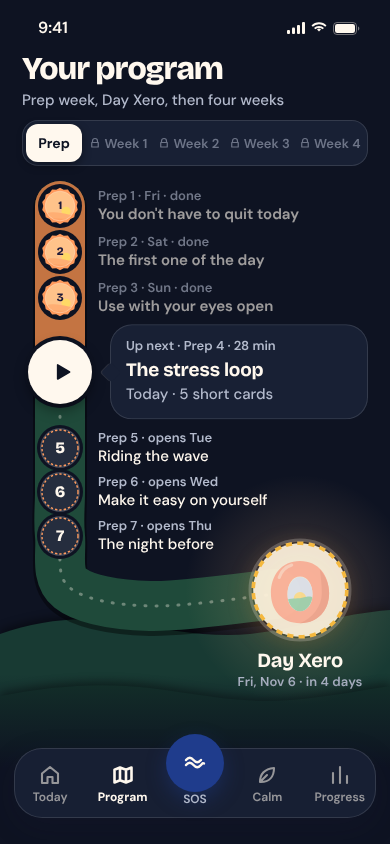
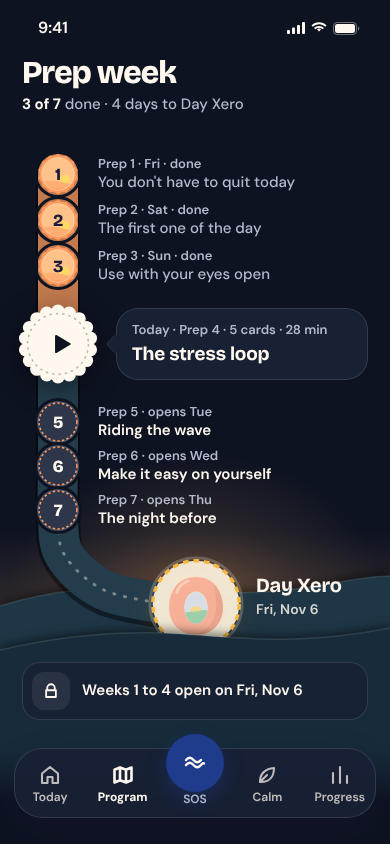
Round 7 work in progress
Claude-Session: https://claude.ai/code/session_01DZ7ApmrncqosUtJWfkxY6v

diff --git a/cook/site/screens/022-program.html b/cook/site/screens/022-program.html
@@ -1,108 +1,122 @@
 <!doctype html><html lang="en"><head><meta charset="utf-8"><meta name="viewport" content="width=390">
 <title>022 Program, prep week</title>
-<meta name="motion" content="Title and the segmented week control arrive (90ms stagger; Week 1 to 4 sit dimmed behind small locks). The road, one continuous paper-cut ribbon, fades in (600ms), then its finished stretch fills prep-orange from the top to today's node (1100ms, ease) along the same path; Prep 1 to 3 stamps and their dimmed rows arrive as the fill reaches each one (about 360ms apart). Today's Prep 4 play node and the up-next card beside it arrive as the fill lands, then the node breathes a soft pulse ring every 2.4s. Prep 5 to 7 (dashed prep-orange rings on cream) fade in, the hills rise 30px into place back to front (100ms apart, 900ms), and the Day Xero coin rises onto the horizon like a sunrise (1100ms settle) as its warm glow brightens (1.2s) and its label fades in under it. Light haptic when the fill reaches today.">
+<meta name="motion" content="The 'Prep week' header and its progress line arrive (600ms, 90ms stagger). The road, one continuous paper-cut ribbon from Prep 1 to the Day Xero coin, fades in (600ms), then its finished stretch fills prep-orange from the top to today's stamp (1100ms, ease); Prep 1 to 3 stamps and their rows arrive as the fill reaches each one (about 360ms apart). Today's Prep 4 play stamp lands as the fill arrives (600ms arrive, no spring) with the up-next card beside it, then the stamp breathes a soft pulse ring every 2.4s. Prep 5 to 7 (dashed rings on cream) fade in, the dotted guide draws on to the horizon, the two hills rise 24px into place back to front (100ms apart, 900ms), and the Day Xero coin rises onto the horizon like a sunrise (1100ms settle) while the warm glow behind it brightens (1.2s) and its label fades in. Last, the locked 'Weeks 1 to 4' row arrives on the hill (600ms). Light haptic when the fill reaches today.">
 <link rel="stylesheet" href="../kit/kit.css">
 <script src="../kit/chars.js"></script><script src="../kit/kit.js"></script>
 <style>
-  .screen[data-ground="mint"] { --g: #FBF6EC; --road: #C4EBD5; --road-edge: rgba(36,73,58,.14); --done-road: #FFAE73; --card-2: #EEF5EC;
-    --h1: #CFEEDB; --h2: #B4E3C7; --hsh: rgba(36,73,58,.16); --glow: #FFD966; }
-  [data-theme="dark"] .screen[data-ground="mint"] { --road: #1F4A3A; --road-edge: rgba(0,0,0,.4); --done-road: #C47442; --card-2: #212A41;
-    --h1: #183A33; --h2: #133029; --hsh: rgba(0,0,0,.45); --glow: #FFC38A; }
-  .hdr { position: absolute; left: 0; right: 0; top: 52px; padding: 0 var(--gutter); }
+  .screen[data-ground="mint"] { --g: #FBF6EC; --road: #CBEBD8; --road-edge: rgba(36,73,58,.16); --done-road: #FFAE73; --card-2: #EEF5EC;
+    --hb: #B3DFC6; --hf: #8FCDAA; --hrim: rgba(255,255,255,.6); --hsh: rgba(30,70,50,.22); --glow: 255,186,96; --glow-a: .62; }
+  [data-theme="dark"] .screen[data-ground="mint"] { --road: #233D4C; --road-edge: rgba(0,0,0,.45); --done-road: #C27A4E; --card-2: #212A41;
+    --hb: #1E3646; --hf: #172B3A; --hrim: rgba(200,225,235,.14); --hsh: rgba(0,0,0,.5); --glow: 255,176,104; --glow-a: .3; }
+  .tabbar a { color: color-mix(in srgb, var(--fg) 72%, transparent); }
+  .tabfade { height: 92px; }
+
+  .hdr { position: absolute; left: 0; right: 0; top: 56px; padding: 0 var(--gutter); }
   .hdr .t-foot { color: var(--muted); margin-top: 4px; }
-  .seg { position: absolute; left: var(--gutter); right: var(--gutter); top: 120px; height: 46px; border-radius: 16px; background: color-mix(in srgb, var(--fg) 7%, var(--g)); padding: 4px; display: grid; grid-template-columns: .82fr 1fr 1fr 1fr 1fr; gap: 2px; }
-  .seg button { border-radius: 12px; font: 600 14px/1 var(--body); color: var(--muted); white-space: nowrap; display: flex; align-items: center; justify-content: center; gap: 3px; }
-  .seg button.on { background: var(--sel); color: var(--sel-fg); font-weight: 800; box-shadow: 0 3px 10px rgba(30,26,58,.24); }
-  .seg button.lk { opacity: .55; font-size: 13px; }
-  .seg button.lk svg { width: 12px; height: 12px; flex: none; }
-  [data-theme="dark"] .seg { background: var(--card); box-shadow: inset 0 0 0 1px var(--line); }
-  [data-theme="dark"] .seg button.on { box-shadow: 0 3px 10px rgba(0,0,0,.4); }
+  .hdr .t-foot b { color: var(--fg); font-weight: 700; }
 
   svg.road { position: absolute; left: 0; top: 0; pointer-events: none; }
   #done { stroke-dasharray: var(--l4) 4000; stroke-dashoffset: 0; }
   .play #done { animation: fill 1100ms var(--ease) 300ms both; }
   @keyframes fill { from { stroke-dashoffset: var(--l4); } to { stroke-dashoffset: 0; } }
+
   .node { position: absolute; transform: translate(-50%, -50%); }
-  .node .bg { border-radius: 99px; background: var(--g); box-shadow: 0 0 0 3px var(--g); }
+  .stamp { position: relative; width: 42px; height: 42px; display: grid; place-items: center; border-radius: 99px; box-shadow: 0 0 0 3px var(--g); }
+  .stamp svg { position: absolute; inset: 0; }
+  .stamp .n { position: relative; font: 800 17px/1 var(--display); color: #1E1A3A; letter-spacing: -.3px; }
+  .stamp.wait { background: var(--card); }
+  [data-theme="dark"] .stamp.wait { background: var(--card-2); }
+  .stamp.wait .n { color: var(--fg); }
   .lab { position: absolute; left: 98px; right: var(--gutter); transform: translateY(-50%); }
   .lab .k { font: 600 13px/1.3 var(--body); color: var(--muted); display: block; }
   .lab .t-foot { font-weight: 600; font-size: 15px; line-height: 1.3; }
-  .lab.done > div { opacity: .6; }
-  .still .lab.done > div { opacity: .6 !important; }
-  .lab.lock .t-foot { font-weight: 500; color: var(--fg); }
-  .wait { position: relative; width: 40px; height: 40px; border-radius: 99px; background: var(--card); display: grid; place-items: center; color: var(--fg); box-shadow: 0 0 0 3px var(--g); }
-  .wait svg { position: absolute; inset: 0; }
-  .wait .n { position: relative; font: 800 16px/1 var(--display); color: var(--fg); letter-spacing: -.3px; }
-  .cur { width: 64px; height: 64px; border-radius: 99px; background: var(--btn); color: var(--btn-fg); display: grid; place-items: center; position: relative; box-shadow: 0 6px 14px rgba(30,26,58,.22), 0 0 0 4px var(--g); }
-  [data-theme="dark"] .cur { box-shadow: 0 6px 14px rgba(0,0,0,.4), 0 0 0 4px var(--g); }
-  .cur svg { width: 26px; height: 26px; margin-left: 4px; }
-  .cur::before { content: ""; position: absolute; inset: -7px; border-radius: 99px; box-shadow: 0 0 0 3px var(--fg); opacity: 0; }
+  .lab.done .t-foot { color: var(--muted); font-weight: 500; }
+
+  /* today: a big stamp you press to play */
+  .cur { position: relative; width: 80px; height: 80px; display: grid; place-items: center; color: var(--btn-fg); filter: drop-shadow(0 6px 12px rgba(30,26,58,.24)); }
+  [data-theme="dark"] .cur { filter: drop-shadow(0 6px 14px rgba(0,0,0,.45)); }
+  .cur svg.sc { position: absolute; inset: 0; }
+  .cur .pl { position: relative; width: 30px; height: 30px; margin-left: 5px; }
+  .cur::before { content: ""; position: absolute; inset: -6px; border-radius: 99px; box-shadow: 0 0 0 3px var(--fg); opacity: 0; }
   .play .cur::before { animation: pulse 2.4s var(--ease) 1.8s infinite; }
-  @keyframes pulse { 0% { opacity: .45; transform: scale(1); } 100% { opacity: 0; transform: scale(1.35); } }
-  .upnext { position: absolute; left: 110px; right: var(--gutter); padding: 14px 16px; display: grid; gap: 3px; overflow: visible; transform: translateY(-50%); box-shadow: 0 8px 22px rgba(36,73,58,.10); }
+  @keyframes pulse { 0% { opacity: .4; transform: scale(1); } 100% { opacity: 0; transform: scale(1.3); } }
+  .upnext { position: absolute; left: 116px; right: var(--gutter); padding: 14px 16px 15px; overflow: visible; transform: translateY(-50%); box-shadow: 0 8px 22px rgba(36,73,58,.12); }
   [data-theme="dark"] .upnext { box-shadow: inset 0 0 0 1px var(--line); }
   .upnext::before { content: ""; position: absolute; left: -6px; top: 50%; width: 14px; height: 14px; margin-top: -7px; background: inherit; border-radius: 3px; transform: rotate(45deg); }
   [data-theme="dark"] .upnext::before { box-shadow: -1px 1px 0 0 var(--line); }
-  .upnext .k { font: 600 13px/1.3 var(--body); color: var(--muted); }
-  .upnext .t-foot { color: var(--muted); }
+  .upnext .k { font: 600 13px/1.3 var(--body); color: var(--muted); display: block; }
+  .upnext .t-head { margin-top: 3px; }
 
-  /* the destination: Day Xero, lit, standing on the horizon */
-  .land { position: absolute; left: 0; right: 0; bottom: 0; height: 280px; pointer-events: none; }
-  .land svg { position: absolute; left: 0; bottom: 0; display: block; }
-  .land .h { filter: drop-shadow(0 -3px 5px var(--hsh)); }
-  .play .land .h { animation: hill 900ms var(--settle) both; }
-  .play .land .h1 { animation-delay: 1500ms; } .play .land .h2 { animation-delay: 1600ms; }
-  @keyframes hill { from { transform: translateY(30px); opacity: 0; } }
-  .goal { position: absolute; transform: translate(-50%, -50%); width: 104px; height: 104px; }
-  .goal .glow { position: absolute; left: 50%; top: 50%; width: 230px; height: 230px; margin: -115px 0 0 -115px; border-radius: 50%; background: radial-gradient(closest-side, color-mix(in srgb, var(--glow) 70%, transparent), color-mix(in srgb, var(--glow) 22%, transparent) 55%, transparent); }
-  [data-theme="dark"] .goal .glow { background: radial-gradient(closest-side, color-mix(in srgb, var(--glow) 34%, transparent), color-mix(in srgb, var(--glow) 10%, transparent) 55%, transparent); }
-  .play .goal .glow { animation: dx-fade 1200ms var(--ease) 1800ms both; }
-  .goal .coin { position: relative; filter: drop-shadow(0 6px 12px rgba(150,90,20,.22)); }
+  /* the horizon: a warm glow where Day Xero rises, two paper-cut hills */
+  .glow { position: absolute; left: 0; right: 0; top: 430px; height: 300px; pointer-events: none;
+    background: radial-gradient(190px 150px at 196px 174px, rgba(var(--glow), var(--glow-a)), rgba(var(--glow), calc(var(--glow-a) * .35)) 55%, rgba(var(--glow), 0) 100%),
+                linear-gradient(180deg, rgba(var(--glow), 0) 34%, rgba(var(--glow), calc(var(--glow-a) * .45)) 58%, rgba(var(--glow), 0) 60%); }
+  .play .glow { animation: dx-fade 1200ms var(--ease) 1800ms both; }
+  .hill { position: absolute; left: 0; top: 0; pointer-events: none; }
+  .hill path.f { filter: drop-shadow(0 -3px 5px var(--hsh)); }
+  .play .hill { animation: hill 900ms var(--settle) both; }
+  .play .hill.b { animation-delay: 1500ms; } .play .hill.f { animation-delay: 1600ms; }
+  @keyframes hill { from { transform: translateY(24px); opacity: 0; } }
+  .goal { position: absolute; transform: translate(-50%, -50%); width: 96px; height: 96px; }
+  .goal .coin { filter: drop-shadow(0 6px 12px rgba(150,90,20,.24)); }
   .play .goal .coin { animation: rise 1100ms var(--settle) 1750ms both; }
   @keyframes rise { from { transform: translateY(40px); opacity: 0; } }
-  .goal-lab { position: absolute; width: 180px; transform: translateX(-50%); text-align: center; }
+  .goal-lab { position: absolute; left: 256px; right: var(--gutter); transform: translateY(-50%); }
   .goal-lab .t-head { font-size: 20px; }
-  .goal-lab .t-cap { color: var(--muted); margin-top: 2px; }
+  .goal-lab .t-cap { color: var(--fg); opacity: .78; margin-top: 3px; font-size: 14px; }
+  [data-theme="dark"] .goal-lab .t-cap { opacity: .82; }
+
+  /* after the horizon: what opens next, locked */
+  .tease { position: absolute; left: var(--gutter); right: var(--gutter); top: 662px; height: 58px; padding: 0 16px 0 10px; display: flex; align-items: center; gap: 12px; border-radius: 18px;
+    background: color-mix(in srgb, var(--card) 72%, transparent); box-shadow: inset 0 0 0 1px var(--line); }
+  [data-theme="dark"] .tease { background: color-mix(in srgb, var(--card) 80%, transparent); }
+  .tease .lk { width: 38px; height: 38px; border-radius: 12px; display: grid; place-items: center; background: color-mix(in srgb, var(--fg) 8%, transparent); color: var(--fg); flex: none; }
+  .tease .lk svg { width: 18px; height: 18px; }
+  .tease .t-foot { font-weight: 600; color: var(--fg); }
 </style>
 </head><body>
 <div class="screen" data-ground="mint">
   <div class="hdr">
-    <h1 class="t-large" data-a style="--i:0">Your program</h1>
-    <p class="t-foot" data-a style="--i:1">Prep week, Day Xero, then four weeks</p>
+    <h1 class="t-large" data-a style="--i:0">Prep week</h1>
+    <p class="t-foot" data-a style="--i:1"><b>3 of 7</b> done &middot; 4 days to Day Xero</p>
   </div>
-  <div class="seg" data-a style="--i:2" role="tablist" id="seg"></div>
 
-  <div class="land" aria-hidden="true">
-    <svg class="h h1" width="390" height="280" viewBox="0 0 390 280"><path d="M0 70 C40 56 80 52 120 58 C170 66 210 74 250 70 C300 64 340 50 390 46 V280 H0Z" fill="var(--h1)"/></svg>
-  </div>
+  <div class="glow" aria-hidden="true"></div>
+  <svg class="hill b" width="390" height="844" viewBox="0 0 390 844" aria-hidden="true"><path class="f" d="M0 606 C50 590 110 584 170 590 C230 596 290 592 340 582 C362 578 378 576 390 576 V844 H0Z" fill="var(--hb)"/><path d="M0 606 C50 590 110 584 170 590 C230 596 290 592 340 582 C362 578 378 576 390 576" fill="none" stroke="var(--hrim)" stroke-width="1.5"/></svg>
   <svg class="road" width="390" height="844" viewBox="0 0 390 844" aria-hidden="true">
-    <path id="edge" fill="none" stroke="var(--road-edge)" stroke-width="54" stroke-linecap="round" stroke-linejoin="round" transform="translate(0 3)" data-fade style="--d:150ms"/>
-    <path id="road" fill="none" stroke="var(--road)" stroke-width="50" stroke-linecap="round" stroke-linejoin="round" data-fade style="--d:150ms"/>
-    <path id="done" fill="none" stroke="var(--done-road)" stroke-width="50" stroke-linecap="round" stroke-linejoin="round"/>
-    <path id="future" fill="none" stroke="var(--fg)" stroke-opacity=".35" stroke-width="3" stroke-dasharray="1 10" stroke-linecap="round" data-fade style="--d:1300ms"/>
+    <path id="edge" fill="none" stroke="var(--road-edge)" stroke-width="44" stroke-linecap="round" stroke-linejoin="round" transform="translate(0 3)" data-fade style="--d:150ms"/>
+    <path id="road" fill="none" stroke="var(--road)" stroke-width="40" stroke-linecap="round" stroke-linejoin="round" data-fade style="--d:150ms"/>
+    <path id="done" fill="none" stroke="var(--done-road)" stroke-width="40" stroke-linecap="round" stroke-linejoin="round"/>
+    <path id="future" fill="none" stroke="var(--fg)" stroke-opacity=".4" stroke-width="3" stroke-dasharray="1 10" stroke-linecap="round" data-fade style="--d:1300ms"/>
   </svg>
-  <div class="land" aria-hidden="true">
-    <svg class="h h2" width="390" height="280" viewBox="0 0 390 280"><path d="M0 132 C50 122 100 118 150 124 C200 130 240 140 290 136 C330 133 360 126 390 122 V280 H0Z" fill="var(--h2)"/></svg>
-  </div>
+  <div id="goal"></div>
+  <svg class="hill f" width="390" height="844" viewBox="0 0 390 844" aria-hidden="true"><path class="f" d="M0 650 C60 636 120 630 180 634 C240 638 300 646 390 628 V844 H0Z" fill="var(--hf)"/><path d="M0 650 C60 636 120 630 180 634 C240 638 300 646 390 628" fill="none" stroke="var(--hrim)" stroke-width="1.5"/></svg>
   <div id="nodes"></div>
+
+  <div class="tease" data-a style="--d:2100ms" aria-label="Weeks 1 to 4, locked until Friday, November 6">
+    <span class="lk" id="lock"></span>
+    <p class="t-foot">Weeks 1 to 4 open on Fri, Nov 6</p>
+  </div>
 </div>
 <script>
   const $ = s => document.querySelector(s);
-  $('#seg').innerHTML = '<button class="on" aria-selected="true">Prep</button>' + [1, 2, 3, 4].map(n => `<button class="lk" aria-label="Week ${n}, opens after Day Xero">${DX.icon('lock', { size: 12, w: 2.4 })}Week ${n}</button>`).join('');
-  const X = 60, Y = [206, 252, 298, 372, 448, 492, 536], G = [300, 590];
-  /* one smooth ribbon: a single Catmull-Rom spline straight down the node column, then one wide sweep onto the horizon to the coin */
+  const X = 58, Y = [174, 220, 266, 344, 422, 466, 510], G = [196, 604];
+  /* one smooth ribbon: a Catmull-Rom spline straight down the node column, then one sweep onto the horizon into the coin */
   const pts = Y.map(y => [X, y]);
-  pts.push([X + 10, 588], [150, 606], [G[0] - 24, G[1] + 4]);
+  pts.push([X + 6, 554], [104, 590], [G[0] - 30, G[1]]);
   const seg = (p, i) => { const p0 = p[i - 1] || p[i], p1 = p[i], p2 = p[i + 1], p3 = p[i + 2] || p2;
     const c1 = [p1[0] + (p2[0] - p0[0]) / 6, p1[1] + (p2[1] - p0[1]) / 6], c2 = [p2[0] - (p3[0] - p1[0]) / 6, p2[1] - (p3[1] - p1[1]) / 6];
     return ` C${c1[0].toFixed(1)} ${c1[1].toFixed(1)} ${c2[0].toFixed(1)} ${c2[1].toFixed(1)} ${p2[0]} ${p2[1]}`; };
   const span = (a, b) => `M${pts[a][0]} ${pts[a][1]}` + Array.from({ length: b - a }, (_, k) => seg(pts, a + k)).join('');
-  const last = pts.length - 1, i4 = pts.findIndex(p => p[0] === X && p[1] === Y[3]);
+  const last = pts.length - 1, i4 = 3;
   ['#edge', '#road', '#done'].forEach(s => $(s).setAttribute('d', span(0, last)));
-  /* the finished stretch is the same path, dashed so it ends at today's node; the dotted guide runs from today on */
+  /* the finished stretch is the same path, dashed so it ends at today's stamp; the dotted guide runs from today to the coin */
   const tmp = document.createElementNS('http://www.w3.org/2000/svg', 'path'); tmp.setAttribute('d', span(0, i4));
   $('svg.road').appendChild(tmp); $('#done').style.setProperty('--l4', tmp.getTotalLength().toFixed(1)); tmp.remove();
-  $('#future').setAttribute('d', span(i4, last));
+  $('#future').setAttribute('d', span(i4 + 1, last));
+
+  /* a soft seal edge: a disc ringed with small round scallops (a big postage-stamp seal, friendlier than a zigzag) */
+  const seal = (cx, cy, R, n, r) => `<circle cx="${cx}" cy="${cy}" r="${R}"/>` + Array.from({ length: n }, (_, i) => { const a = 2 * Math.PI * i / n - Math.PI / 2; return `<circle cx="${(cx + R * Math.cos(a)).toFixed(2)}" cy="${(cy + R * Math.sin(a)).toFixed(2)}" r="${r}"/>`; }).join('');
 
   const titles = ["You don't have to quit today", 'The first one of the day', 'Use with your eyes open', 'The stress loop', 'Riding the wave', 'Make it easy on yourself', 'The night before'];
   const days = ['Fri', 'Sat', 'Sun', 'Mon', 'Tue', 'Wed', 'Thu'];
@@ -111,19 +125,20 @@
     const n = i + 1;
     if (n <= 3) {
       const d = 300 + i * 360;
-      h += `<div class="node" style="left:${X}px;top:${y}px"><div data-a style="--d:${d}ms"><div class="bg">${DX.badge({ kind: 'prep', n, size: 38, bare: true })}</div></div></div>`;
+      h += `<div class="node" style="left:${X}px;top:${y}px"><div data-a style="--d:${d}ms"><div class="stamp">${DX.badge({ kind: 'prep', n: '', size: 42, bare: true })}<span class="n">${n}</span></div></div></div>`;
       h += `<div class="lab done" style="top:${y}px"><div data-a style="--d:${d + 60}ms"><span class="k">Prep ${n} &middot; ${days[i]} &middot; done</span><p class="t-foot">${titles[i]}</p></div></div>`;
     } else if (n === 4) {
-      h += `<div class="node" style="left:${X}px;top:${y}px"><div data-a style="--d:1250ms"><button class="cur" aria-label="Play Prep 4">${DX.icon('play', { fill: 'currentColor', w: 1.5 })}</button></div></div>`;
-      h += `<div class="card upnext" style="top:${y}px"><div data-a style="--d:1250ms;display:grid;gap:3px"><span class="k">Up next &middot; Prep 4 &middot; 28 min</span><p class="t-head">The stress loop</p><p class="t-foot">Today &middot; 5 short cards</p></div></div>`;
+      h += `<div class="node" style="left:${X}px;top:${y}px"><div data-a style="--d:1250ms"><button class="cur" aria-label="Play Prep 4, The stress loop"><svg class="sc" viewBox="0 0 100 100"><g fill="var(--btn)">${seal(50, 50, 41, 18, 8.4)}</g><circle cx="50" cy="50" r="38" fill="none" stroke="var(--btn-fg)" stroke-opacity=".28" stroke-width="2" stroke-dasharray="3 5"/></svg><span class="pl">${DX.icon('play', { size: 30, fill: 'currentColor', w: 1.5 })}</span></button></div></div>`;
+      h += `<div class="card upnext" style="top:${y}px"><div data-a style="--d:1250ms"><span class="k">Today &middot; Prep 4 &middot; 5 cards &middot; 28 min</span><p class="t-head">The stress loop</p></div></div>`;
     } else {
-      h += `<div class="node" style="left:${X}px;top:${y}px"><div data-fade style="--d:1400ms"><div class="wait">${DX.badge({ kind: 'prep', n: '', state: 'next', size: 40, bare: true })}<span class="n">${n}</span></div></div></div>`;
-      h += `<div class="lab lock" style="top:${y}px"><div data-fade style="--d:1450ms"><span class="k">Prep ${n} &middot; opens ${days[i]}</span><p class="t-foot">${titles[i]}</p></div></div>`;
+      h += `<div class="node" style="left:${X}px;top:${y}px"><div data-fade style="--d:1400ms"><div class="stamp wait">${DX.badge({ kind: 'prep', n: '', state: 'next', size: 42, bare: true })}<span class="n">${n}</span></div></div></div>`;
+      h += `<div class="lab" style="top:${y}px"><div data-fade style="--d:1450ms"><span class="k">Prep ${n} &middot; opens ${days[i]}</span><p class="t-foot">${titles[i]}</p></div></div>`;
     }
   });
-  h += `<div class="goal" style="left:${G[0]}px;top:${G[1]}px"><div class="glow"></div><div class="coin">${DX.badge({ kind: 'xero', size: 104, bare: true, state: 'next', label: 'Day Xero, waiting' })}</div></div>`;
-  h += `<div class="goal-lab" style="left:${G[0]}px;top:${G[1] + 58}px"><div data-fade style="--d:1900ms"><p class="t-head">Day Xero</p><p class="t-cap">Fri, Nov 6 &middot; in 4 days</p></div></div>`;
+  h += `<div class="goal-lab" style="top:${G[1] - 8}px"><div data-fade style="--d:1900ms"><p class="t-head">Day Xero</p><p class="t-cap">Fri, Nov 6</p></div></div>`;
   $('#nodes').innerHTML = h;
+  $('#goal').innerHTML = `<div class="goal" style="left:${G[0]}px;top:${G[1]}px"><div class="coin">${DX.badge({ kind: 'xero', size: 96, bare: true, state: 'next', label: 'Day Xero, waiting' })}</div></div>`;
+  $('#lock').innerHTML = DX.icon('lock', { w: 2.4 });
   $('.screen').insertAdjacentHTML('beforeend', DX.tabbar('program'));
 </script>
 </body></html>

diff --git a/cook/site/screens/023-session-hand.html b/cook/site/screens/023-session-hand.html
@@ -1,50 +1,43 @@
 <!doctype html><html lang="en"><head><meta charset="utf-8"><meta name="viewport" content="width=390">
 <title>023 Session hand</title>
-<meta name="motion" content="Title, line and the prep stamps arrive (600ms, 90ms stagger). The four back cards deal in from below one by one into a fan behind (760ms settle each, 120ms apart, from 300ms): Try mint, Reveal sky, Myth or fact rose, Try mint. Then card 1, the apricot Listen card, rises in front of them (900ms settle at 820ms) with its single outline and title, and its mini waveform bars grow left to right (18ms apart). The button arrives last. Light haptic on each card landing, a medium one when card 1 lands.">
+<meta name="motion" content="Title, line and the prep stamps arrive (600ms, 90ms stagger). The four back cards deal in from below one by one and stand level behind, outer two a step lower (760ms settle each, 120ms apart, from 300ms), each showing only its icon: Try mint, Reveal sky, Myth or fact rose, Try mint. Then card 1, the apricot Listen card, rises level in front of them (900ms settle at 820ms) and Xero, in his headphones, settles in front of its sun (700ms at 1200ms) and sways gently to the music (5s bob loop). The button arrives last. Light haptic on each card landing, a medium one when card 1 lands.">
 <link rel="stylesheet" href="../kit/kit.css">
 <script src="../kit/chars.js"></script><script src="../kit/kit.js"></script>
 <style>
 /* one colour per card type, shared by every session screen: Listen apricot, Try mint, Reveal sky, Myth or fact rose.
    Dark mode deepens the pastels a step so they sit on navy without glaring. */
-.k-listen{--face:#FFC38A}.k-try{--face:#9FE3BC}.k-reveal{--face:#9CCBFF}.k-myth{--face:#FFB9A6}
-[data-theme="dark"] .k-listen{--face:#F3B47E}[data-theme="dark"] .k-try{--face:#8FD3AD}[data-theme="dark"] .k-reveal{--face:#8EBBEC}[data-theme="dark"] .k-myth{--face:#EFA894}
+.k-listen{--face:#FFC38A;--face-2:#FFD6AC;--sunc:#FFE6BC}.k-try{--face:#9FE3BC}.k-reveal{--face:#9CCBFF}.k-myth{--face:#FFB9A6}
+[data-theme="dark"] .k-listen{--face:#F3B47E;--face-2:#F7C595;--sunc:#FDDDAE}[data-theme="dark"] .k-try{--face:#8FD3AD}[data-theme="dark"] .k-reveal{--face:#8EBBEC}[data-theme="dark"] .k-myth{--face:#EFA894}
 .head{position:absolute;top:112px;left:0;right:0;display:grid;gap:6px}
-.stamps{position:absolute;top:190px;left:var(--gutter);right:var(--gutter);display:flex;align-items:center;gap:8px}
+.stamps{position:absolute;top:184px;left:var(--gutter);right:var(--gutter);display:flex;align-items:center;gap:8px}
 .stamps .t-foot{margin-left:8px}
-/* small stamps read as plain coins: no inner sun scene, a bigger numeral */
-.stamps svg g[clip-path]{display:none}
-.stamps svg text{font-size:46px}
-/* the hand: four cards fanned behind, card 1 drawn out in front, centred between the stamps and the button */
-.fan{position:absolute;top:322px;left:0;right:0;height:350px}
-.bc{position:absolute;left:50%;top:0;width:108px;height:160px;margin-left:-54px;border-radius:16px;background:var(--face);color:#1E1A3A;
-  display:grid;justify-items:start;align-content:start;gap:8px;padding:12px 12px 0;transform-origin:50% 100%;
-  transform:translate(var(--x),var(--y)) rotate(var(--r));box-shadow:0 8px 18px rgba(60,40,20,.13)}
+/* the hand: four cards standing level behind (icons only), card 1 drawn out in front. The hand is 310px wide, centred. */
+.fan{position:absolute;top:318px;left:50%;width:310px;margin-left:-155px;height:360px}
+.bc{position:absolute;top:0;left:calc(50% + var(--x));width:84px;height:170px;margin-left:-42px;border-radius:16px;background:var(--face);color:#1E1A3A;
+  display:grid;justify-items:center;align-content:start;padding-top:14px;transform:translateY(var(--y));box-shadow:0 8px 18px rgba(60,40,20,.12)}
 [data-theme="dark"] .bc{box-shadow:0 10px 22px rgba(0,0,0,.42)}
-.bc .ic{width:32px;height:32px;border-radius:99px;background:rgba(30,26,58,.1);display:grid;place-items:center}
-.bc .ic svg{width:18px;height:18px}
-/* index corner, like a playing card: the left edge of every back card stays visible in the fan */
-.bc b{font:700 14px/1.1 var(--display);letter-spacing:-.1px;max-width:62px}
+.bc .ic{width:36px;height:36px;border-radius:99px;background:rgba(30,26,58,.1);display:grid;place-items:center}
+.bc .ic svg{width:19px;height:19px}
 .play .bc{animation:deal 760ms var(--settle) both;animation-delay:calc(300ms + var(--k) * 120ms)}
-@keyframes deal{from{opacity:0;transform:translate(0,420px) rotate(0deg)}35%{opacity:1}to{opacity:1;transform:translate(var(--x),var(--y)) rotate(var(--r))}}
-/* card 1: one 1.5px outline marks it as the card in hand */
-.front{position:absolute;left:50%;top:96px;width:240px;height:228px;margin-left:-120px;border-radius:24px;background:var(--face);color:#1E1A3A;
-  padding:18px 18px 16px;display:flex;flex-direction:column;transform:rotate(-2deg);
+@keyframes deal{from{opacity:0;transform:translateY(420px)}35%{opacity:1}to{opacity:1;transform:translateY(var(--y))}}
+/* card 1: a small Listen player, the same art as the card it opens (024) */
+.front{position:absolute;left:50%;top:82px;width:252px;margin-left:-126px;border-radius:24px;background:var(--face);color:#1E1A3A;overflow:hidden;
   box-shadow:0 0 0 1.5px var(--fg),0 16px 28px rgba(60,40,20,.18)}
 [data-theme="dark"] .front{box-shadow:0 0 0 1.5px var(--fg),0 18px 32px rgba(0,0,0,.5)}
 .play .front{animation:lift 900ms var(--settle) both 820ms}
-@keyframes lift{from{opacity:0;transform:translateY(300px) rotate(0deg)}40%{opacity:1}to{opacity:1;transform:rotate(-2deg)}}
-.front .kind{display:flex;align-items:center;gap:8px;font:600 14px/1 var(--body);color:#3A2410}
-.front .kind .ic{width:32px;height:32px;border-radius:99px;background:rgba(30,26,58,.1);display:grid;place-items:center}
-.front .kind .ic svg{width:18px;height:18px}
-.front h2{font:800 25px/1.1 var(--display);letter-spacing:-.5px;margin:16px 0 0;text-wrap:balance}
-.front .wv{margin-top:auto;display:block}
-.front .wv rect{transform-box:fill-box;transform-origin:50% 50%}
-.play .front .wv rect{animation:bar 420ms var(--settle) both;animation-delay:calc(1300ms + var(--b) * 18ms)}
-@keyframes bar{from{transform:scaleY(.1)}to{transform:none}}
+@keyframes lift{from{opacity:0;transform:translateY(300px)}40%{opacity:1}to{opacity:1;transform:none}}
+.front .art{position:relative;height:138px;background:linear-gradient(to bottom,var(--face-2),var(--face))}
+.front .sun{position:absolute;left:50%;top:16px;width:120px;height:120px;margin-left:-60px;border-radius:50%;background:var(--sunc)}
+.front .xw{position:absolute;left:50%;bottom:-6px;width:124px;margin-left:-62px}
+.play .front .xw{animation:dx-settle 700ms var(--settle) both 1200ms}
+.front .in{padding:14px 18px 20px}
+.front .kind{display:flex;align-items:center;gap:7px;font:600 14px/1 var(--body);color:#3A2410}
+.front .kind svg{width:17px;height:17px}
+.front h2{font:800 24px/1.1 var(--display);letter-spacing:-.5px;margin:10px 0 0;text-wrap:balance}
 </style>
 </head><body>
 <div class="screen" data-ground="table">
-  <div class="nav"><button class="icon-btn" aria-label="Close" id="close"></button><div class="grow"></div><span class="t-foot muted">Mon, Nov 2</span></div>
+  <div class="nav"><button class="icon-btn" aria-label="Close" id="close"></button></div>
   <div class="head pad">
     <h1 class="t-large" data-a style="--i:0">The stress loop</h1>
     <p class="t-foot muted" data-a style="--i:1">Prep 4 · 5 cards · about 28 min</p>
@@ -54,23 +47,30 @@
   <div class="dock"><button class="btn" data-a style="--i:10;--d:700ms">Play card 1</button></div>
 </div>
 <script>
-/* one glyph per card type: Listen headphones, Try hand, Reveal eye, Myth or fact question mark, Your stress plan spark */
+/* one glyph per card type: Try hand, Reveal eye, Myth or fact question mark, Your stress plan spark */
 const G = {
   question: '<svg viewBox="0 0 24 24" fill="none" stroke="currentColor" stroke-width="2.4" stroke-linecap="round" stroke-linejoin="round"><path d="M8.6 8.6a3.5 3.5 0 116.2 2.2c-.9 1-2.8 1.7-2.8 3.6v.4"/><path d="M12 18.6h.01" stroke-width="3"/></svg>',
   spark: '<svg viewBox="0 0 24 24" fill="currentColor"><path d="M12 2.8c.7 4.9 2.3 6.6 7.4 7.4-5.1.8-6.7 2.5-7.4 7.4-.7-4.9-2.3-6.6-7.4-7.4 5.1-.8 6.7-2.5 7.4-7.4z"/><circle cx="18.6" cy="18.4" r="1.8"/></svg>'
 };
 const ic = n => G[n] || DX.icon(n);
 document.getElementById('close').innerHTML = DX.icon('close');
+/* the kit stamp family, as on the Program path: Prep 1 to 3 earned, Prep 4 waiting */
 document.getElementById('stamps').innerHTML = [1,2,3].map(n => DX.badge({kind:'prep', n, size:46, bare:true})).join('') +
   DX.badge({kind:'prep', n:4, state:'next', size:46, bare:true}) + '<span class="t-foot muted">Today</span>';
-/* cards 2 to 5: Try (breath), Reveal, Myth or fact, Try (your stress plan) */
+/* cards 2 to 5: Try (breath), Reveal, Myth or fact, Try (your stress plan); level, icons only, outer two a step lower */
 const back = [['try','hand','Try'], ['reveal','eye','Reveal'], ['myth','question','Myth or fact'], ['try','spark','Try']];
-const X = [-96, -33, 33, 96], Y = [22, 4, 4, 22], R = [-11, -4, 4, 11];
-/* mini waveform for the Listen card */
-const n = 28, W = 204, bw = 3.4, gap = (W - n * bw) / (n - 1);
-const hs = Array.from({length:n}, (_, i) => 6 + Math.round(22 * Math.abs(Math.sin(i * 1.7) * .6 + Math.sin(i * .45) * .4)));
-const wave = `<svg class="wv" width="${W}" height="30" viewBox="0 0 ${W} 30" aria-hidden="true">${hs.map((h, i) => `<rect x="${(i * (bw + gap)).toFixed(1)}" y="${15 - h / 2}" width="${bw}" height="${h}" rx="1.7" fill="#1E1A3A" fill-opacity="${i < 9 ? .7 : .26}" style="--b:${i}"/>`).join('')}</svg>`;
-document.getElementById('fan').innerHTML = back.map((c, k) => `<div class="bc k-${c[0]}" style="--x:${X[k]}px;--y:${Y[k]}px;--r:${R[k]}deg;--k:${k}"><span class="ic">${ic(c[1])}</span><b>${c[2]}</b></div>`).join('') +
-  `<div class="front k-listen"><div class="kind"><span class="ic">${DX.icon('headphones')}</span>Listen · 6 min</div><h2>Why it feels like it calms you</h2>${wave}</div>`;
+const X = [-113, -38, 38, 113], Y = [16, 0, 0, 16];
+/* Xero in headphones (same drawing as 024): band and cups go into his body group so they sway with him */
+const PHONES = `<g aria-hidden="true">
+  <path d="M38 108 C30 -4 170 -4 162 108" fill="none" stroke="#1E1A3A" stroke-width="10" stroke-linecap="round"/>
+  <path d="M52 62 C66 30 100 22 122 26" fill="none" stroke="#FFF8EE" stroke-opacity=".35" stroke-width="3" stroke-linecap="round"/>
+  <rect x="18" y="88" width="30" height="48" rx="14" fill="#1E1A3A"/><rect x="24" y="96" width="9" height="32" rx="4.5" fill="#FF9A6B"/>
+  <rect x="152" y="88" width="30" height="48" rx="14" fill="#1E1A3A"/><rect x="167" y="96" width="9" height="32" rx="4.5" fill="#FF9A6B"/></g>`;
+let xs = DX.char('xero', {mood:'calm', size:124});
+const mi = xs.indexOf('stroke-width="3.5"'); const end = xs.indexOf('</path>', mi) + 7;
+xs = xs.slice(0, end) + PHONES + xs.slice(end);
+document.getElementById('fan').innerHTML = back.map((c, k) => `<div class="bc k-${c[0]}" style="--x:${X[k]}px;--y:${Y[k]}px;--k:${k}" aria-label="${c[2]}"><span class="ic">${ic(c[1])}</span></div>`).join('') +
+  `<div class="front k-listen"><div class="art"><div class="sun"></div><div class="xw"><div class="bob">${xs}</div></div></div>
+   <div class="in"><div class="kind">${DX.icon('headphones', {size:17, w:2.4})}Listen · 6 min</div><h2>Why it feels like it calms you</h2></div></div>`;
 </script>
 </body></html>
